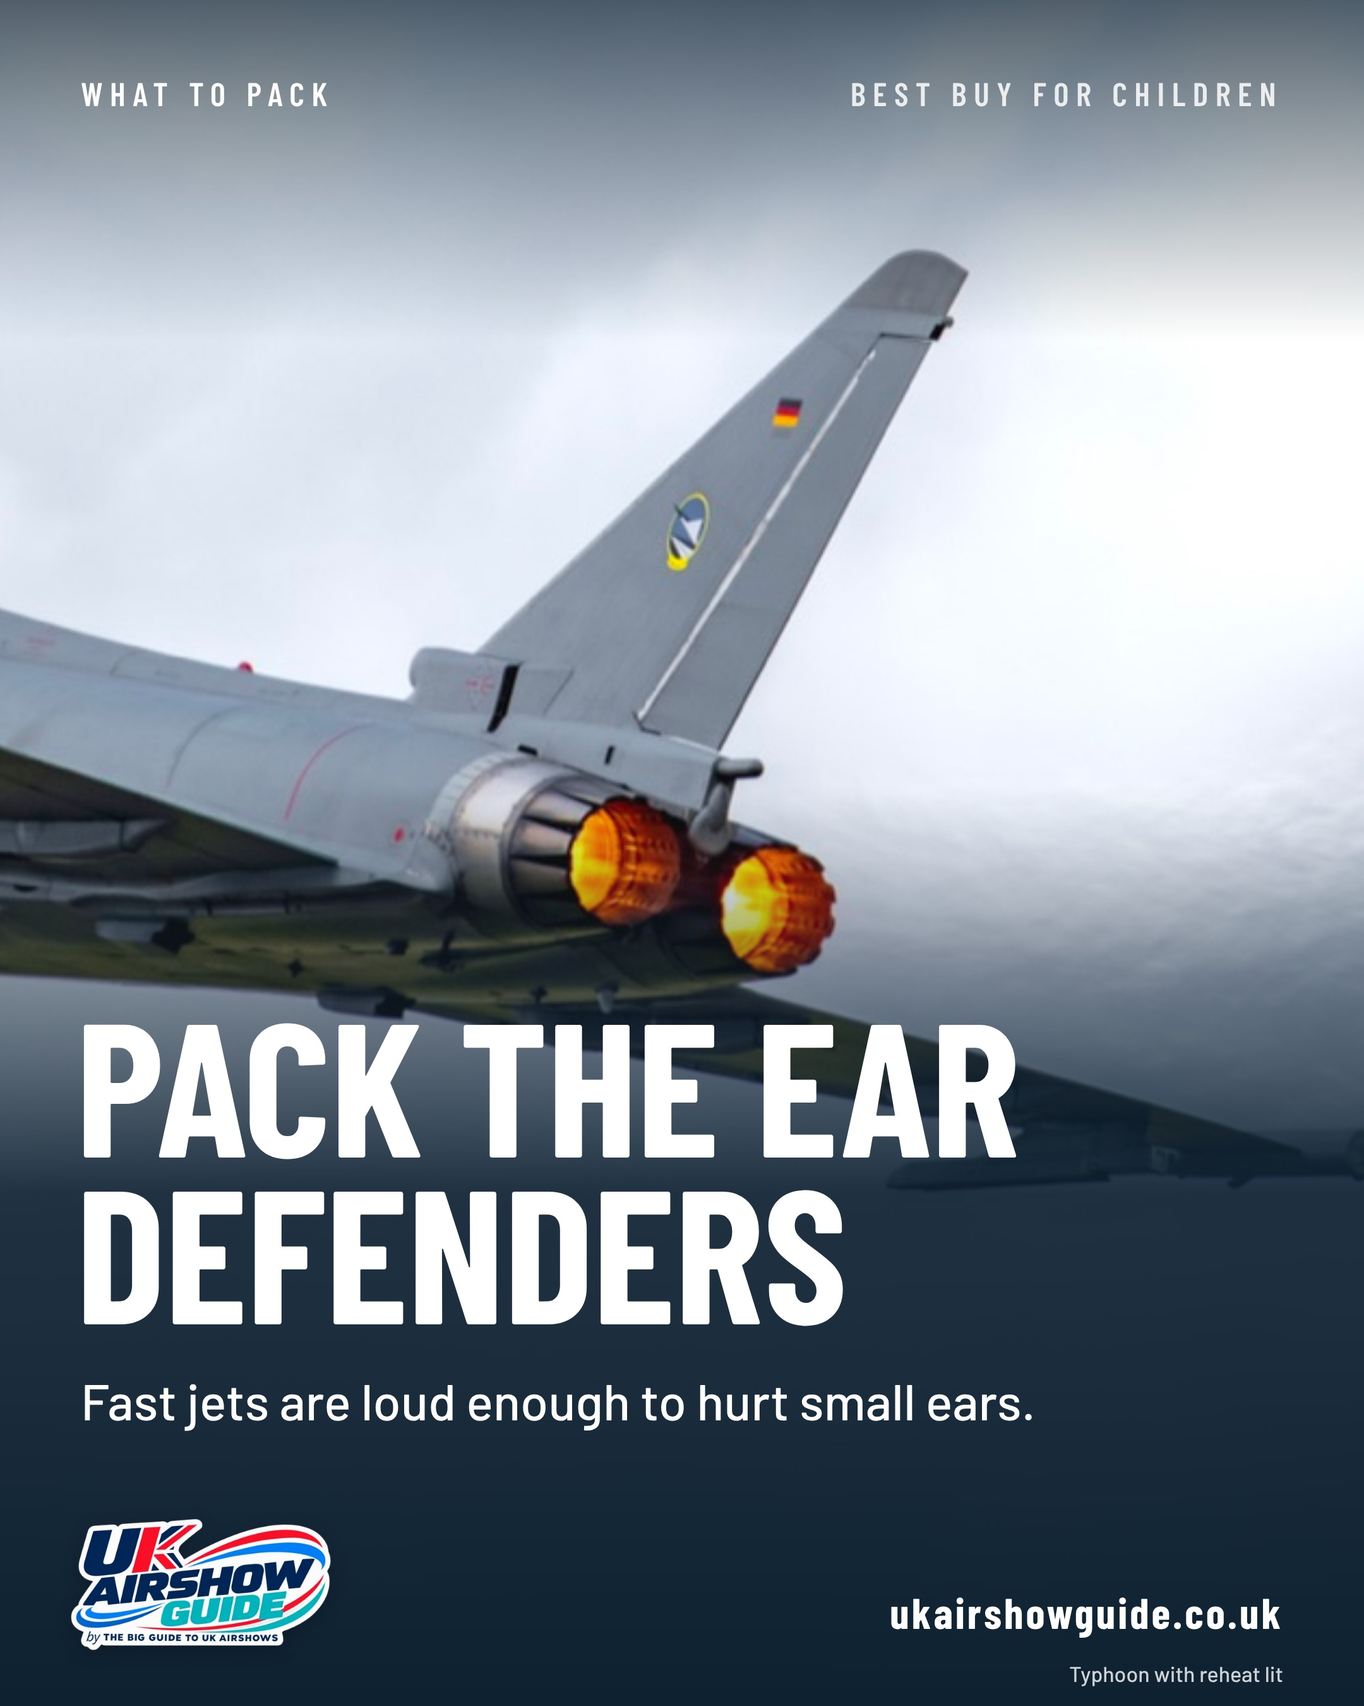
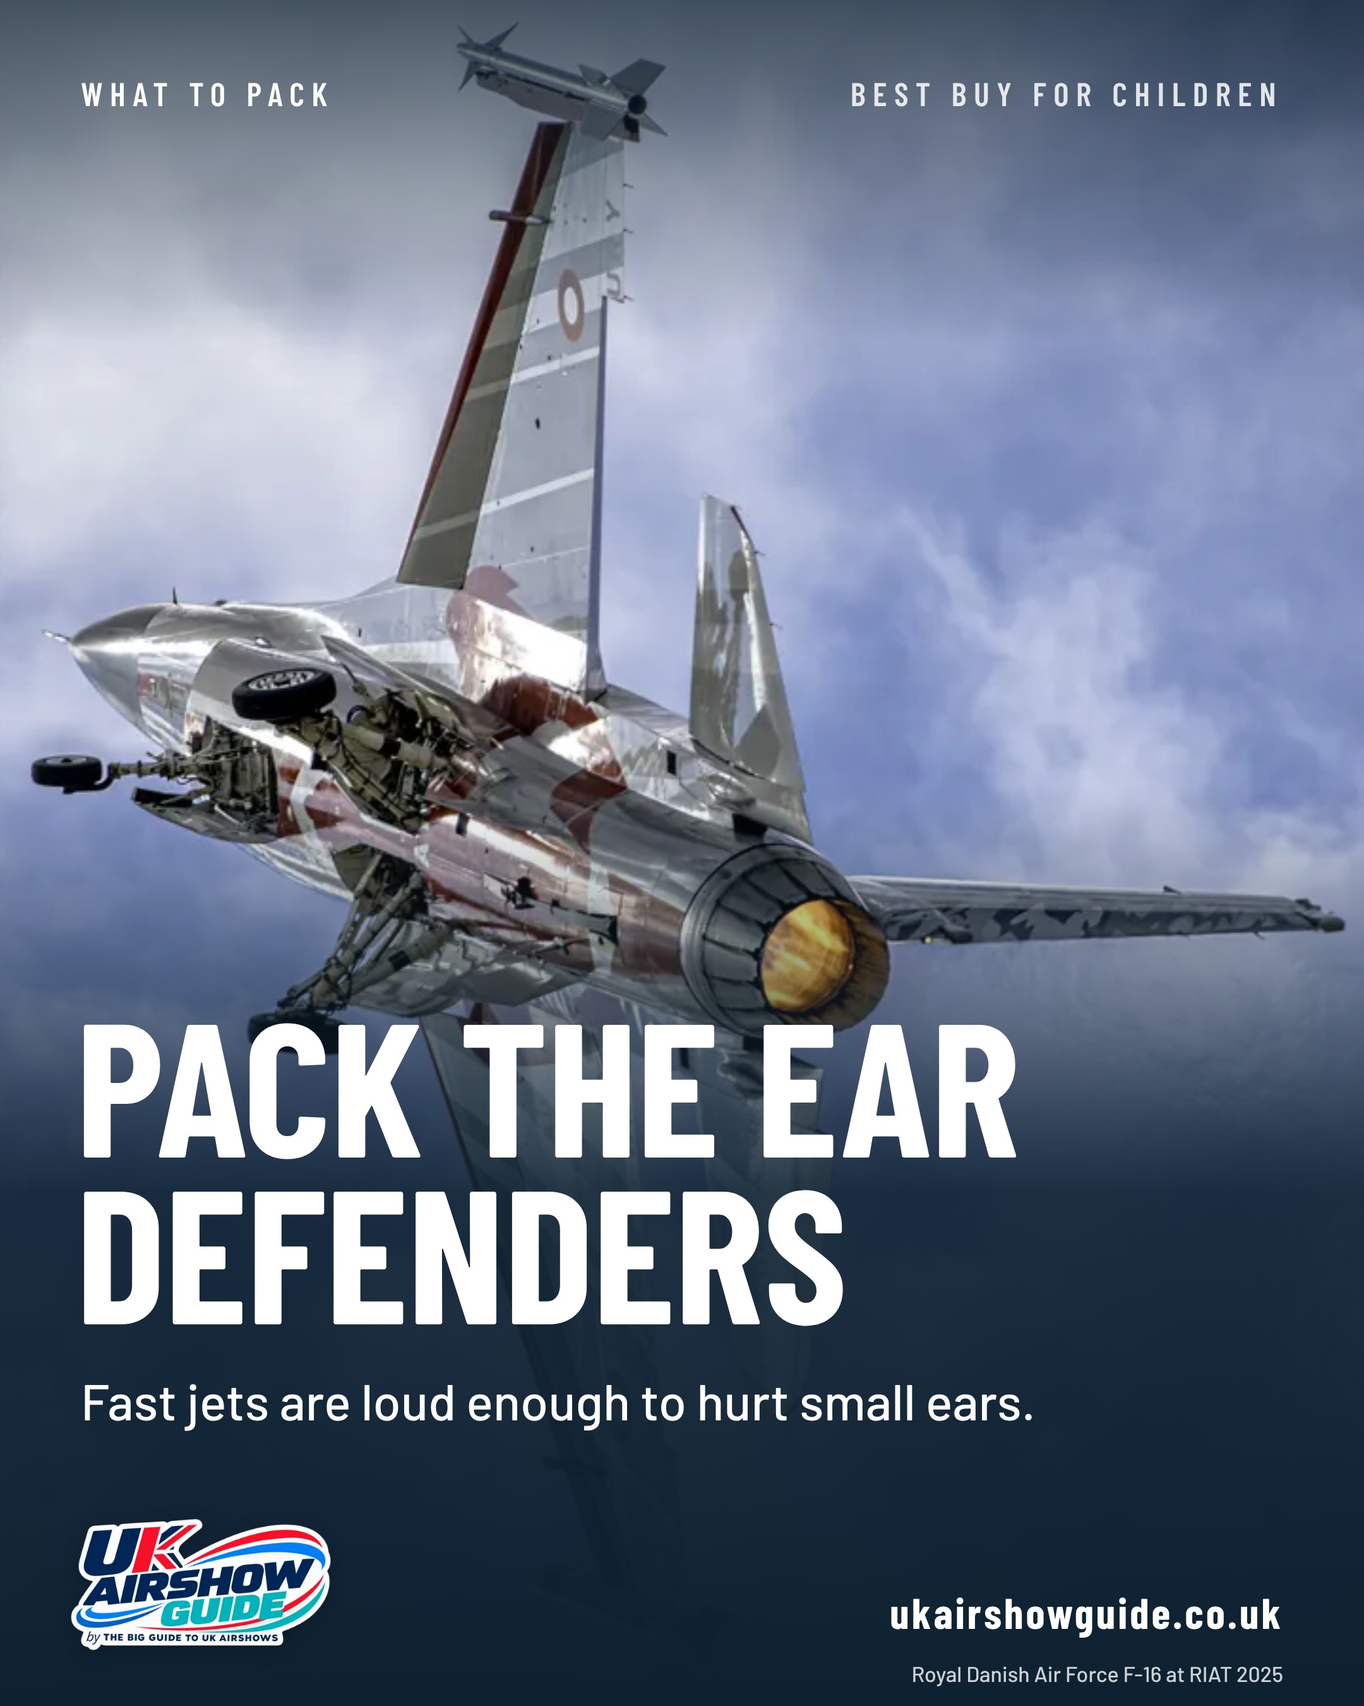
Little posters: seven more, Red Arrows photos replaced with Cosford 2026 and RIAT 2025
Claude-Session: https://claude.ai/code/session_01CAsoXMemAtBndXNbXZbhzA

diff --git a/posters/index.html b/posters/index.html
@@ -20,7 +20,7 @@ a.card small{display:inline-block;margin-top:10px;font-size:13px;color:#A9E3E0}
 <h2>Five mixed styles</h2><div class="grid" id="a"></div>
 <h2>Five ways to get there</h2><div class="grid" id="b"></div>
 <h2>More posters</h2><div class="grid" id="c"></div>
-<h2>Ten little posters for the website</h2><p class="lead" style="margin-bottom:16px">1080 by 1350, ready to drop into a page or a post.</p><div class="grid" id="d"></div>
+<h2>Little posters for the website</h2><p class="lead" style="margin-bottom:16px">1080 by 1350, ready to drop into a page or a post.</p><div class="grid" id="d"></div>
 </main><script>
 var P=[["01-season-at-a-glance","The 2027 season at a glance","Swiss typographic"],["02-first-airshow-blueprint","Your first airshow","Blueprint"],["03-riat-hud","RIAT is moving","Cockpit HUD"],["04-cosford-photo","RAF Cosford Air Show","Photo led"],["05-duxford-2027","Duxford 2027","Modern photo and type"],
 ["06-train-to-cosford-map","Train to Cosford","Rail route map"],["07-seaside-by-train-vintage","Take the train","Vintage railway poster"],["08-parking-road-signs","Parking on site","Road signs"],["09-check-before-you-travel-board","Check before you travel","Departure board"],["10-park-and-ride-bus","Park and ride","Bus stop bold"],
@@ -31,5 +31,5 @@ a.innerHTML='<img loading="lazy" src="png/'+p[0]+'.png" alt="'+p[1]+' poster, '+
 document.getElementById(i<5?"a":i<10?"b":"c").appendChild(a);
 });
 
-[["01-46-shows", "46 shows. One guide."], ["02-arrive-an-hour-early", "Arrive an hour early"], ["03-what-to-pack", "What to pack"], ["04-photography-hub", "Photography Hub"], ["05-leave-early-or-stay-late", "Stay an hour, or go early"], ["06-riat-2027", "RIAT 2027"], ["07-train-bus-or-coach", "By train, bus or coach"], ["08-free-seafront-shows", "Free to watch"], ["09-keep-30-percent", "Keep 30%"], ["10-ear-defenders", "Pack the ear defenders"]].forEach(function(p){var a=document.createElement("a");a.className="card";a.href="little/img/"+p[0]+".jpg";a.innerHTML='<img loading="lazy" style="aspect-ratio:4/5" src="little/img/'+p[0]+'.jpg" alt="'+p[1]+' little poster"><div><b>'+p[1]+'</b><small>Full size image</small></div>';document.getElementById("d").appendChild(a)});
+[["01-46-shows", "46 shows. One guide."], ["02-arrive-an-hour-early", "Arrive an hour early"], ["03-what-to-pack", "What to pack"], ["04-photography-hub", "Photography Hub"], ["05-leave-early-or-stay-late", "Stay an hour, or go early"], ["06-riat-2027", "RIAT 2027"], ["07-train-bus-or-coach", "By train, bus or coach"], ["08-free-seafront-shows", "Free to watch"], ["09-keep-30-percent", "Keep 30%"], ["10-ear-defenders", "Pack the ear defenders"], ["11-raf-cosford-2027", "RAF Cosford 2027"], ["12-where-to-watch", "The front row is free"], ["13-rain", "Pilots can fly in rain"], ["14-bag-searches", "Plan for a bag search"], ["15-on-a-budget", "Airshows on a budget"], ["16-spotter-cards", "Spotter cards"], ["17-aircraft-a-to-z", "Aircraft A to Z"]].forEach(function(p){var a=document.createElement("a");a.className="card";a.href="little/img/"+p[0]+".jpg";a.innerHTML='<img loading="lazy" style="aspect-ratio:4/5" src="little/img/'+p[0]+'.jpg" alt="'+p[1]+' little poster"><div><b>'+p[1]+'</b><small>Full size image</small></div>';document.getElementById("d").appendChild(a)});
 </script></body></html>

diff --git a/posters/little/08-free-seafront-shows.html b/posters/little/08-free-seafront-shows.html
@@ -1,12 +1,10 @@
 <!doctype html><html lang="en"><head><meta charset="utf-8"><title>Free to watch from the seafront | The Big Guide to UK Airshows</title>
 <link rel="stylesheet" href="https://fonts.googleapis.com/css2?family=Barlow:wght@400;500;600;700&family=Barlow+Condensed:wght@500;600;700&display=swap">
-<link rel="stylesheet" href="little.css"><style>.bg{background-image:url(../../home-img/v2/type-seaside.jpg);background-position:50% 40%}.shade{background:linear-gradient(180deg,rgba(14,33,49,.7) 0%,rgba(14,33,49,0) 14%,rgba(14,33,49,0) 36%,#0E2131 52%,#0E2131 100%)}h1{top:600px;font-size:168px}.p{top:0px}.lp .bg{background-size:1080px auto;background-repeat:no-repeat;background-position:50% 0}</style></head><body>
+<link rel="stylesheet" href="little.css"><style>.lp{background:#0E5F5B;color:#fff}</style></head><body>
 <div class="lp">
-  <div class="bg"></div><div class="shade"></div>
   <div class="k"><span>Seaside airshows 2027</span><i>Take the train</i></div>
-  <h1>Free to watch</h1>
-  <div class="p"></div>
-  <div class="rows" style="top:790px"><div><b>12 to 15 Aug</b><span>Eastbourne</span></div><div><b>26 and 27 Aug</b><span>Clacton</span></div><div><b>3 and 4 Sept</b><span>Ayr</span></div><div class="end"></div></div>
-  <div class="cap">Red Arrows</div>
+  <h1 style="top:120px;font-size:200px">Free to<br>watch</h1>
+  <div class="p" style="top:500px;font-size:44px;font-weight:600;color:#A9E3E0">Seaside shows are usually free to watch, with the display over the water.</div>
+  <div class="rows" style="top:700px"><div><b>12 to 15 Aug</b><span>Eastbourne</span></div><div><b>26 and 27 Aug</b><span>Clacton</span></div><div><b>3 and 4 Sept</b><span>Ayr</span></div><div class="end"></div></div>
   <div class="foot"><img src="../logo.png" alt="UK Airshow Guide"><span>ukairshowguide.co.uk</span></div>
 </div></body></html>

diff --git a/posters/little/01-46-shows.html b/posters/little/01-46-shows.html
@@ -1,11 +1,12 @@
 <!doctype html><html lang="en"><head><meta charset="utf-8"><title>46 shows confirmed for 2027 | The Big Guide to UK Airshows</title>
 <link rel="stylesheet" href="https://fonts.googleapis.com/css2?family=Barlow:wght@400;500;600;700&family=Barlow+Condensed:wght@500;600;700&display=swap">
-<link rel="stylesheet" href="little.css"><style>.bg{background-image:url(../../home-img/v2/hero-arrows-riat23.jpg);background-position:58% 40%}.shade{background:linear-gradient(180deg,rgba(14,33,49,.72) 0%,rgba(14,33,49,0) 20%,rgba(14,33,49,0) 46%,rgba(14,33,49,.9) 70%,#0E2131 100%)}h1{top:730px;font-size:170px}.p{top:1052px}</style></head><body>
+<link rel="stylesheet" href="little.css"><style>.lp .bg{background-image:url(../../camping-layout/img/c845a159c4eba4e4.webp);background-size:1080px auto;background-repeat:no-repeat;background-position:50% 0;bottom:auto;height:607px}.shade{background:linear-gradient(180deg,rgba(14,33,49,.7) 0,rgba(14,33,49,0) 150px,rgba(14,33,49,0) 500px,#13293C 607px)}.bar{position:absolute;left:64px;top:650px;width:120px;height:10px;background:#D74949}h1{top:690px;font-size:160px}.p{top:1005px;color:#D5E1E9}.cap{bottom:auto;top:616px}</style></head><body>
 <div class="lp">
   <div class="bg"></div><div class="shade"></div>
   <div class="k"><span>UK airshow dates</span><i>Season 2027</i></div>
+  <div class="bar"></div>
   <h1><em style="color:#A9E3E0">46</em> shows.<br>One guide.</h1>
   <div class="p">Every UK airshow I know of for 2027, from the big military shows to seaside weekends.</div>
-  <div class="cap">Red Arrows at RIAT 2023</div>
+  <div class="cap">Bristol Blenheim trailing smoke over RAF Cosford</div>
   <div class="foot"><img src="../logo.png" alt="UK Airshow Guide"><span>ukairshowguide.co.uk</span></div>
 </div></body></html>

diff --git a/posters/little/04-photography-hub.html b/posters/little/04-photography-hub.html
@@ -1,11 +1,12 @@
 <!doctype html><html lang="en"><head><meta charset="utf-8"><title>Airshow Photography Hub | The Big Guide to UK Airshows</title>
 <link rel="stylesheet" href="https://fonts.googleapis.com/css2?family=Barlow:wght@400;500;600;700&family=Barlow+Condensed:wght@500;600;700&display=swap">
-<link rel="stylesheet" href="little.css"><style>.bg{background-image:url(../../home-img/v2/guide-photo-typhoon.jpg);background-position:50% 50%}.shade{background:linear-gradient(180deg,rgba(14,33,49,.72) 0%,rgba(14,33,49,0) 20%,rgba(14,33,49,0) 46%,rgba(14,33,49,.9) 70%,#0E2131 100%)}h1{top:760px;font-size:150px}.p{top:1052px}</style></head><body>
+<link rel="stylesheet" href="little.css"><style>.lp .bg{background-image:url(../../camping-layout/img/16cb3ab85bc2e67a.webp);background-size:1080px auto;background-repeat:no-repeat;background-position:50% 0;bottom:auto;height:607px}.shade{background:linear-gradient(180deg,rgba(14,33,49,.7) 0,rgba(14,33,49,0) 150px,rgba(14,33,49,0) 500px,#13293C 607px)}.bar{position:absolute;left:64px;top:650px;width:120px;height:10px;background:#D74949}h1{top:690px;font-size:150px}.p{top:988px;color:#D5E1E9}.cap{bottom:auto;top:616px}</style></head><body>
 <div class="lp">
   <div class="bg"></div><div class="shade"></div>
   <div class="k"><span>Airshow Photography Hub</span><i>For every featured show</i></div>
+  <div class="bar"></div>
   <h1>Know where<br>to stand</h1>
   <div class="p">My camera settings, where to stand and the sun guides, show by show.</div>
-  <div class="cap">Eurofighter Typhoon</div>
+  <div class="cap">Messerschmitt Bf 109 panned low over the trees, Cosford 2026</div>
   <div class="foot"><img src="../logo.png" alt="UK Airshow Guide"><span>ukairshowguide.co.uk</span></div>
 </div></body></html>

diff --git a/posters/little/10-ear-defenders.html b/posters/little/10-ear-defenders.html
@@ -1,11 +1,11 @@
 <!doctype html><html lang="en"><head><meta charset="utf-8"><title>Ear defenders for children | The Big Guide to UK Airshows</title>
 <link rel="stylesheet" href="https://fonts.googleapis.com/css2?family=Barlow:wght@400;500;600;700&family=Barlow+Condensed:wght@500;600;700&display=swap">
-<link rel="stylesheet" href="little.css"><style>.bg{background-image:url(../../home-img/v2/ac-typhoon-pull.jpg);background-position:50% 50%}.shade{background:linear-gradient(180deg,rgba(14,33,49,.72) 0%,rgba(14,33,49,0) 20%,rgba(14,33,49,0) 46%,rgba(14,33,49,.9) 70%,#0E2131 100%)}h1{top:790px;font-size:150px}.p{top:1082px}</style></head><body>
+<link rel="stylesheet" href="little.css"><style>.bg{background-image:url(../../camping-layout/img/riat-f16-danish.webp);background-position:52% 50%}.shade{background:linear-gradient(180deg,rgba(14,33,49,.72) 0%,rgba(14,33,49,0) 20%,rgba(14,33,49,0) 46%,rgba(14,33,49,.9) 70%,#0E2131 100%)}h1{top:790px;font-size:150px}.p{top:1082px}</style></head><body>
 <div class="lp">
   <div class="bg"></div><div class="shade"></div>
   <div class="k"><span>What to pack</span><i>Best buy for children</i></div>
   <h1>Pack the ear<br>defenders</h1>
   <div class="p">Fast jets are loud enough to hurt small ears.</div>
-  <div class="cap">Typhoon with reheat lit</div>
+  <div class="cap">Royal Danish Air Force F-16 at RIAT 2025</div>
   <div class="foot"><img src="../logo.png" alt="UK Airshow Guide"><span>ukairshowguide.co.uk</span></div>
 </div></body></html>

diff --git a/posters/little/11-raf-cosford-2027.html b/posters/little/11-raf-cosford-2027.html
@@ -1,0 +1,12 @@
+<!doctype html><html lang="en"><head><meta charset="utf-8"><title>RAF Cosford Air Show 2027 | The Big Guide to UK Airshows</title>
+<link rel="stylesheet" href="https://fonts.googleapis.com/css2?family=Barlow:wght@400;500;600;700&family=Barlow+Condensed:wght@500;600;700&display=swap">
+<link rel="stylesheet" href="little.css"><style>.lp .bg{background-image:url(../../camping-layout/img/88b504a8957bc276.webp);background-size:1080px auto;background-repeat:no-repeat;background-position:50% 0;bottom:auto;height:607px}.shade{background:linear-gradient(180deg,rgba(14,33,49,.7) 0,rgba(14,33,49,0) 150px,rgba(14,33,49,0) 500px,#13293C 607px)}.bar{position:absolute;left:64px;top:650px;width:120px;height:10px;background:#D74949}h1{top:690px;font-size:150px}.p{top:988px;color:#D5E1E9}.cap{bottom:auto;top:616px}</style></head><body>
+<div class="lp">
+  <div class="bg"></div><div class="shade"></div>
+  <div class="k"><span>Royal Air Force Air Show</span><i>My RAF Cosford guide</i></div>
+  <div class="bar"></div>
+  <h1>Cosford<br><em style="color:#A9E3E0">13 June 2027</em></h1>
+  <div class="p">The show with its own station, about 300 metres from the platform to the show.</div>
+  <div class="cap">RAF C-17 Globemaster ZZ177 on a flypast, Cosford 2026</div>
+  <div class="foot"><img src="../logo.png" alt="UK Airshow Guide"><span>ukairshowguide.co.uk</span></div>
+</div></body></html>

diff --git a/posters/little/13-rain.html b/posters/little/13-rain.html
@@ -1,0 +1,12 @@
+<!doctype html><html lang="en"><head><meta charset="utf-8"><title>Does rain stop an airshow? | The Big Guide to UK Airshows</title>
+<link rel="stylesheet" href="https://fonts.googleapis.com/css2?family=Barlow:wght@400;500;600;700&family=Barlow+Condensed:wght@500;600;700&display=swap">
+<link rel="stylesheet" href="little.css"><style>.lp .bg{background-image:url(../../camping-layout/img/b58aaf7bd033aabe.webp);background-size:1080px auto;background-repeat:no-repeat;background-position:50% 0;bottom:auto;height:607px}.shade{background:linear-gradient(180deg,rgba(14,33,49,.7) 0,rgba(14,33,49,0) 150px,rgba(14,33,49,0) 500px,#13293C 607px)}.bar{position:absolute;left:64px;top:650px;width:120px;height:10px;background:#D74949}h1{top:690px;font-size:150px}.p{top:988px;color:#D5E1E9}.cap{bottom:auto;top:616px}</style></head><body>
+<div class="lp">
+  <div class="bg"></div><div class="shade"></div>
+  <div class="k"><span>Rainy day plan</span><i>Grey skies, still flying</i></div>
+  <div class="bar"></div>
+  <h1>Pilots can<br>fly in rain</h1>
+  <div class="p">What they look at is how high the cloud is and how far they can see. Pack for rain, go anyway.</div>
+  <div class="cap">Pitts Special G-JPIT, smoke on, Cosford 2026</div>
+  <div class="foot"><img src="../logo.png" alt="UK Airshow Guide"><span>ukairshowguide.co.uk</span></div>
+</div></body></html>

diff --git a/posters/little/17-aircraft-a-to-z.html b/posters/little/17-aircraft-a-to-z.html
@@ -1,0 +1,12 @@
+<!doctype html><html lang="en"><head><meta charset="utf-8"><title>Aircraft A to Z | The Big Guide to UK Airshows</title>
+<link rel="stylesheet" href="https://fonts.googleapis.com/css2?family=Barlow:wght@400;500;600;700&family=Barlow+Condensed:wght@500;600;700&display=swap">
+<link rel="stylesheet" href="little.css"><style>.lp .bg{background-image:url(../../home-img/v2/type-military-riat25.jpg);background-size:1080px auto;background-repeat:no-repeat;background-position:50% 0;bottom:auto;height:607px}.shade{background:linear-gradient(180deg,rgba(14,33,49,.7) 0,rgba(14,33,49,0) 150px,rgba(14,33,49,0) 500px,#13293C 607px)}.bar{position:absolute;left:64px;top:650px;width:120px;height:10px;background:#D74949}h1{top:690px;font-size:160px}.p{top:1005px;color:#D5E1E9}.cap{bottom:auto;top:616px}</style></head><body>
+<div class="lp">
+  <div class="bg"></div><div class="shade"></div>
+  <div class="k"><span>Aircraft A to Z</span><i>Know what you are looking at</i></div>
+  <div class="bar"></div>
+  <h1>F is for<br><em style="color:#FF8C92">F-16</em></h1>
+  <div class="p">At RIAT 2025 Denmark flew what was billed as its last F-16 display there.</div>
+  <div class="cap">F-16 Half Century, Royal Danish Air Force, RIAT 2025</div>
+  <div class="foot"><img src="../logo.png" alt="UK Airshow Guide"><span>ukairshowguide.co.uk</span></div>
+</div></body></html>

diff --git a/posters/little/14-bag-searches.html b/posters/little/14-bag-searches.html
@@ -1,0 +1,10 @@
+<!doctype html><html lang="en"><head><meta charset="utf-8"><title>Plan for a bag search | The Big Guide to UK Airshows</title>
+<link rel="stylesheet" href="https://fonts.googleapis.com/css2?family=Barlow:wght@400;500;600;700&family=Barlow+Condensed:wght@500;600;700&display=swap">
+<link rel="stylesheet" href="little.css"><style>.lp{background:#13293C;color:#fff}.rows b{width:290px;flex:none;color:#32B4AF}</style></head><body>
+<div class="lp">
+  <div class="k"><span>Airshow security</span><i>At the gate</i></div>
+  <h1 style="top:120px;font-size:176px">Plan for<br>a <em style="color:#32B4AF">bag search</em></h1>
+  <div class="p" style="top:470px;font-size:44px;font-weight:600;color:#D5E1E9">With Martyn's Law expected in spring 2027, more shows may bring in checks.</div>
+  <div class="rows" style="top:700px"><div><b>Ticketed</b><span>Most big shows search or scan every bag.</span></div><div><b>Seafront</b><span>Free shows usually have no gate checks.</span></div><div><b>Tip</b><span>One bag each, packed so a search takes seconds.</span></div><div class="end"></div></div>
+  <div class="foot"><img src="../logo.png" alt="UK Airshow Guide"><span>ukairshowguide.co.uk</span></div>
+</div></body></html>

diff --git a/posters/little/12-where-to-watch.html b/posters/little/12-where-to-watch.html
@@ -1,0 +1,10 @@
+<!doctype html><html lang="en"><head><meta charset="utf-8"><title>The front row is free | The Big Guide to UK Airshows</title>
+<link rel="stylesheet" href="https://fonts.googleapis.com/css2?family=Barlow:wght@400;500;600;700&family=Barlow+Condensed:wght@500;600;700&display=swap">
+<link rel="stylesheet" href="little.css"><style>.lp{background:#6950A1;color:#fff}.rows span{font-size:40px}.rows div{padding:20px 0 18px}</style></head><body>
+<div class="lp">
+  <div class="k"><span>Where to watch</span><i>The crowd line</i></div>
+  <h1 style="top:120px;font-size:190px">The front<br>row is <em style="color:#FFD86B">free</em></h1>
+  <div class="p" style="top:500px;font-size:56px;font-weight:600">if you get there first.</div>
+  <div class="rows" style="top:660px"><div><span>Every ticket gets you to the crowd line.</span></div><div><span>Save your pitch with chairs and a blanket before you do anything else.</span></div><div><span>The enclosures buy you comfort, not a better view.</span></div><div class="end"></div></div>
+  <div class="foot"><img src="../logo.png" alt="UK Airshow Guide"><span>ukairshowguide.co.uk</span></div>
+</div></body></html>

diff --git a/posters/little/15-on-a-budget.html b/posters/little/15-on-a-budget.html
@@ -1,0 +1,11 @@
+<!doctype html><html lang="en"><head><meta charset="utf-8"><title>Airshows on a budget | The Big Guide to UK Airshows</title>
+<link rel="stylesheet" href="https://fonts.googleapis.com/css2?family=Barlow:wght@400;500;600;700&family=Barlow+Condensed:wght@500;600;700&display=swap">
+<link rel="stylesheet" href="little.css"><style>.lp{background:#F6F5F1;color:#13293C}.big{position:absolute;left:54px;top:190px;font:700 470px/1 'Barlow Condensed',sans-serif;color:#D74949;letter-spacing:-.02em}</style></head><body>
+<div class="lp">
+  <div class="k"><span>Airshows on a budget</span><i>Family of four</i></div>
+  <div class="p" style="top:150px;font-size:50px;font-weight:600">Save over</div>
+  <div class="big">£100</div>
+  <div class="p" style="top:690px;font-size:50px;font-weight:600;line-height:1.2">on tickets alone, by choosing a free seaside airshow.</div>
+  <div class="p" style="top:900px;font-size:36px;color:#5A6873">Then budget for food, drinks and getting there. A packed lunch saves money and queueing.</div>
+  <div class="foot"><img src="../logo.png" alt="UK Airshow Guide"><span>ukairshowguide.co.uk</span></div>
+</div></body></html>

diff --git a/posters/little/16-spotter-cards.html b/posters/little/16-spotter-cards.html
@@ -1,0 +1,10 @@
+<!doctype html><html lang="en"><head><meta charset="utf-8"><title>Aircraft spotter cards | The Big Guide to UK Airshows</title>
+<link rel="stylesheet" href="https://fonts.googleapis.com/css2?family=Barlow:wght@400;500;600;700&family=Barlow+Condensed:wght@500;600;700&display=swap">
+<link rel="stylesheet" href="little.css"><style>.lp{background:#FFD86B;color:#13293C}.big{position:absolute;left:50px;top:70px;font:700 560px/1 'Barlow Condensed',sans-serif;color:#D74949;letter-spacing:-.03em}.rows b{font-size:66px}.rows span{font-size:34px}</style></head><body>
+<div class="lp">
+  <div class="k"><span>Aircraft spotter cards</span><i>For children and grown ups</i></div>
+  <div class="big">24</div>
+  <h1 style="top:560px;font-size:150px">aircraft<br>to spot</h1>
+  <div class="rows" style="top:860px"><div><b>5, 10 or 20</b><span>points a card, by how rare it is</span></div><div><b>6 badges</b><span>Can you reach Airshow Legend?</span></div><div class="end"></div></div>
+  <div class="foot"><img src="../logo.png" alt="UK Airshow Guide"><span>ukairshowguide.co.uk</span></div>
+</div></body></html>
